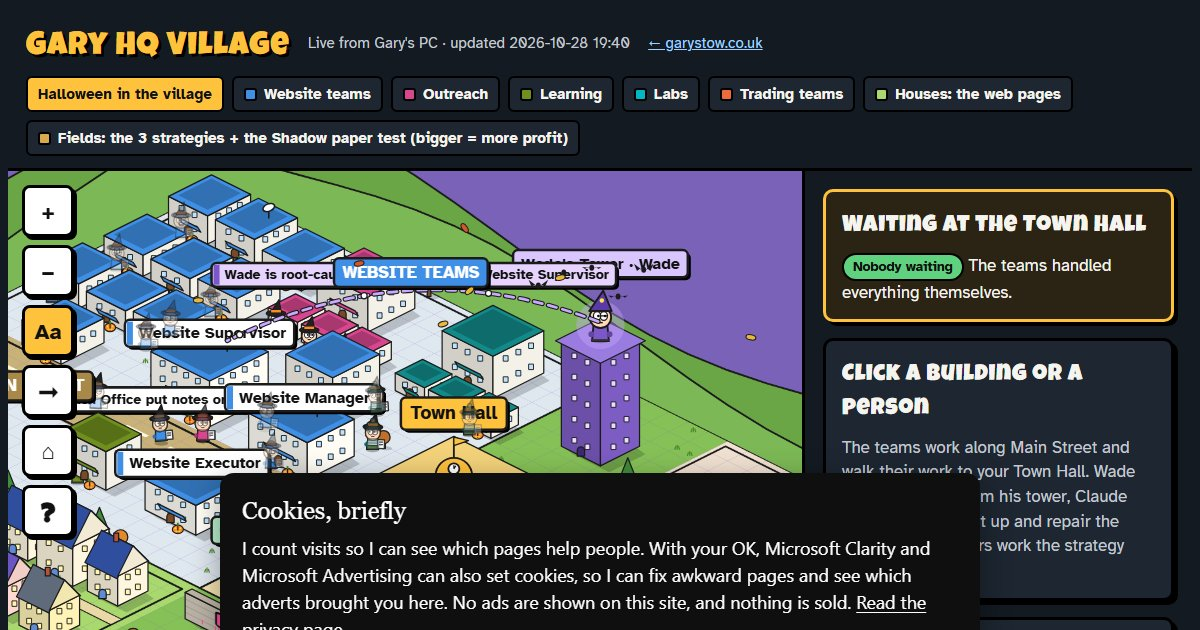
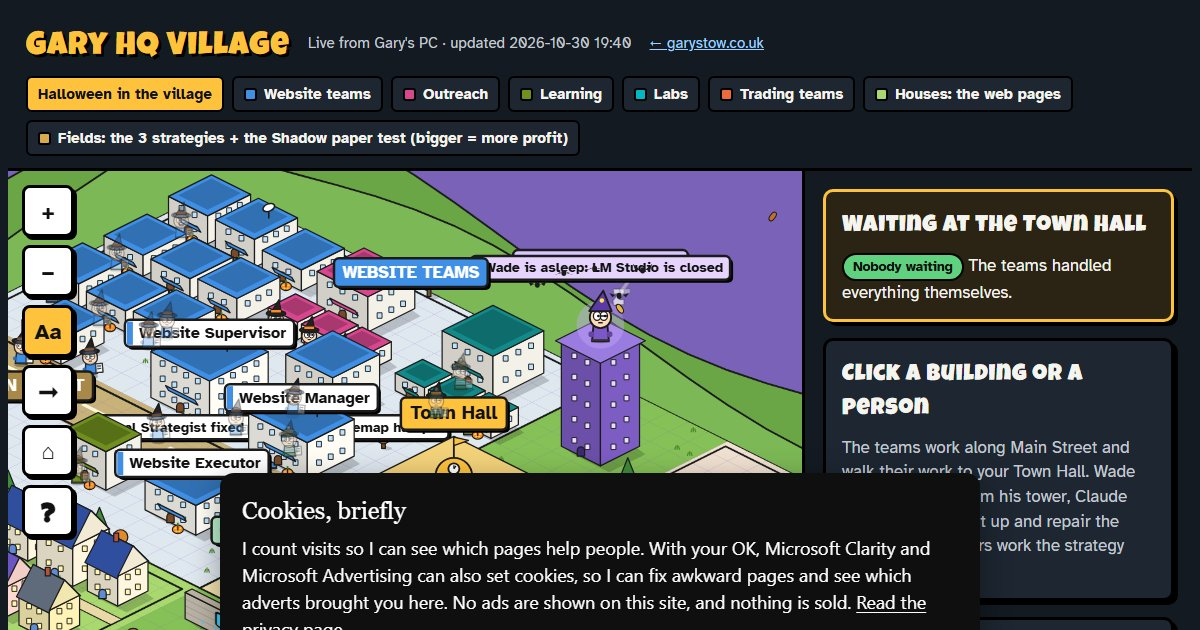
Village: refresh the public data (2026-10-30 19:40)

diff --git a/village/index.html b/village/index.html
@@ -193,6 +193,7 @@ const BUILDINGS = [
   ["layout","Layout Guard","web","dept",3,7.6,2,2.2,1.2,"Opens every page in a hidden browser before and after a change and blocks anything that breaks the look."],
   ["audit","System Auditor","web","dept",5.4,7.6,2,2.2,1.4,"Checks every 30 minutes that each automation really did its job."],
   ["fixer","SEO Auto-Fixer","web","dept",3,10.9,2,2.2,1.4,"Fixes basic SEO by itself every evening and merges it: alt text, long descriptions, missing links.",1],
+  ["synd","Cross-posting Desk","web","dept",12.3,10.3,1.6,1.6,1.2,"Re-posts your technical articles on dev.to, one a week, a week after they go live on your site. Each post credits garystow.co.uk as the original. Nothing goes up without your YES.",1],
   ["guides","Guides Library","web","dept",12.4,6.6,2.4,2.4,2.4,"Step-by-step guides on AI tools, PPC and the systems Gary built. Every guide passes the automatic checks (Guide Standard, copied wording, screenshots, links, topic list), then waits here for Gary to read and approve it. Approved guides go live by themselves, up to 4 a week, at least 2 days apart.",1],
   ["tsup","Trading Supervisor","trade","sup",34,9.5,3,3,2.6,"Triages everything the trading departments raise and root-causes it before you see it. Wade does the thinking."],
   ["tman","Trading Manager","trade","man",28.8,10.3,3,2.4,2.1,"Your one contact for trading. Walks what needs you to the Town Hall and fills the trading dashboard."],
